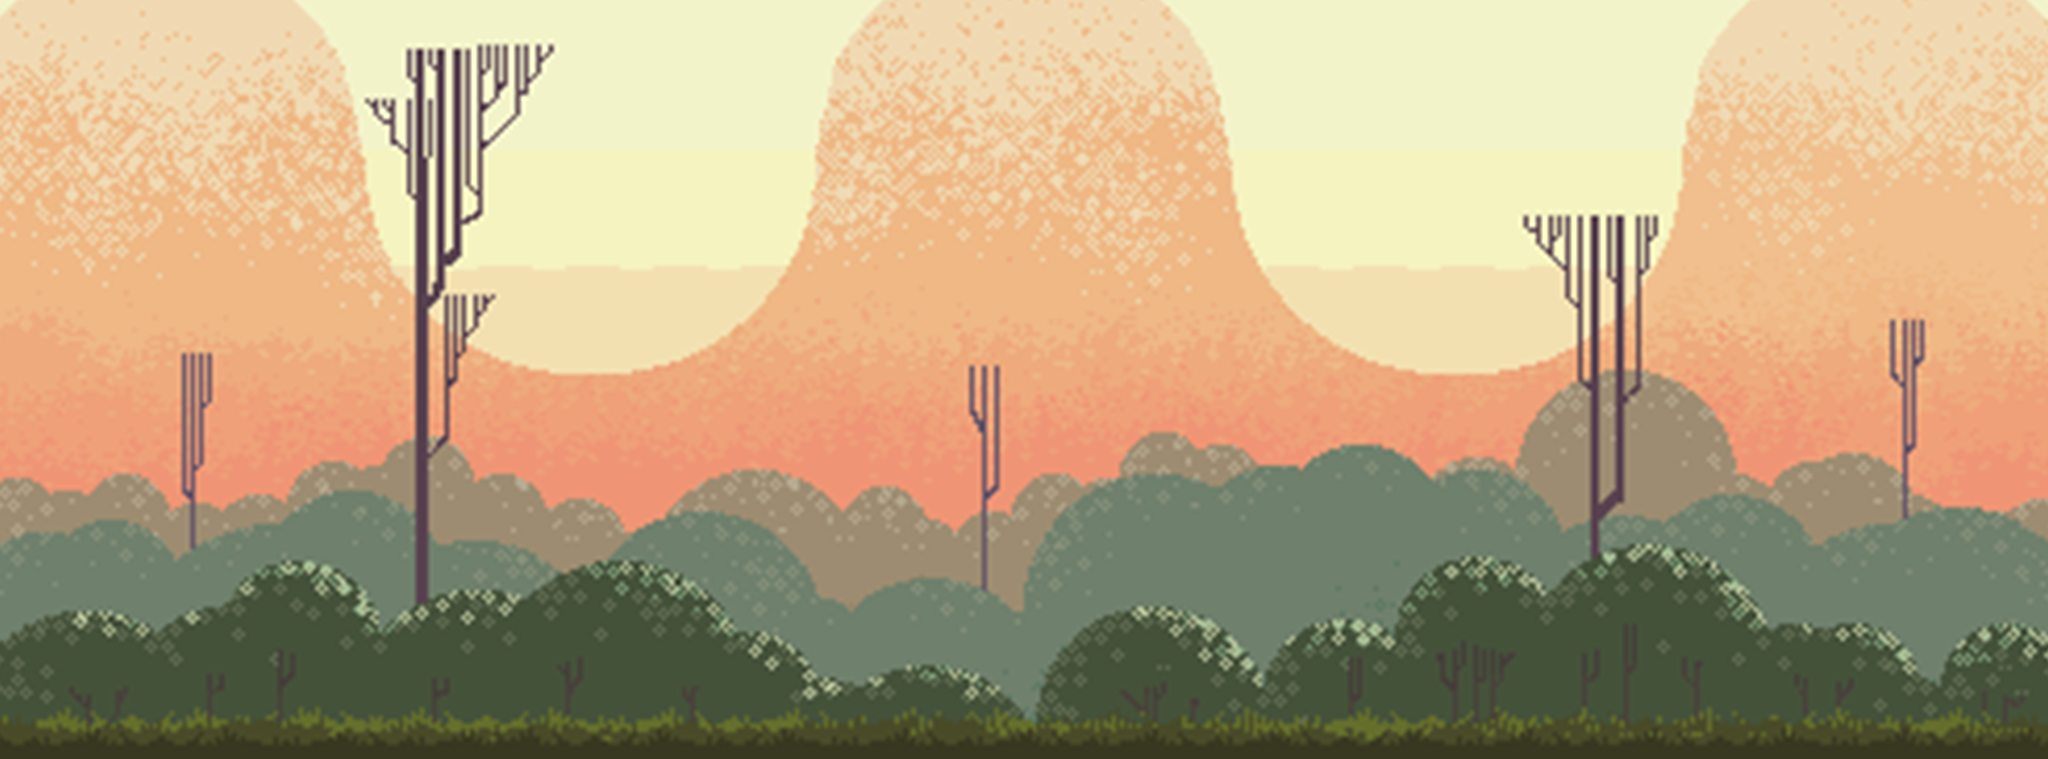
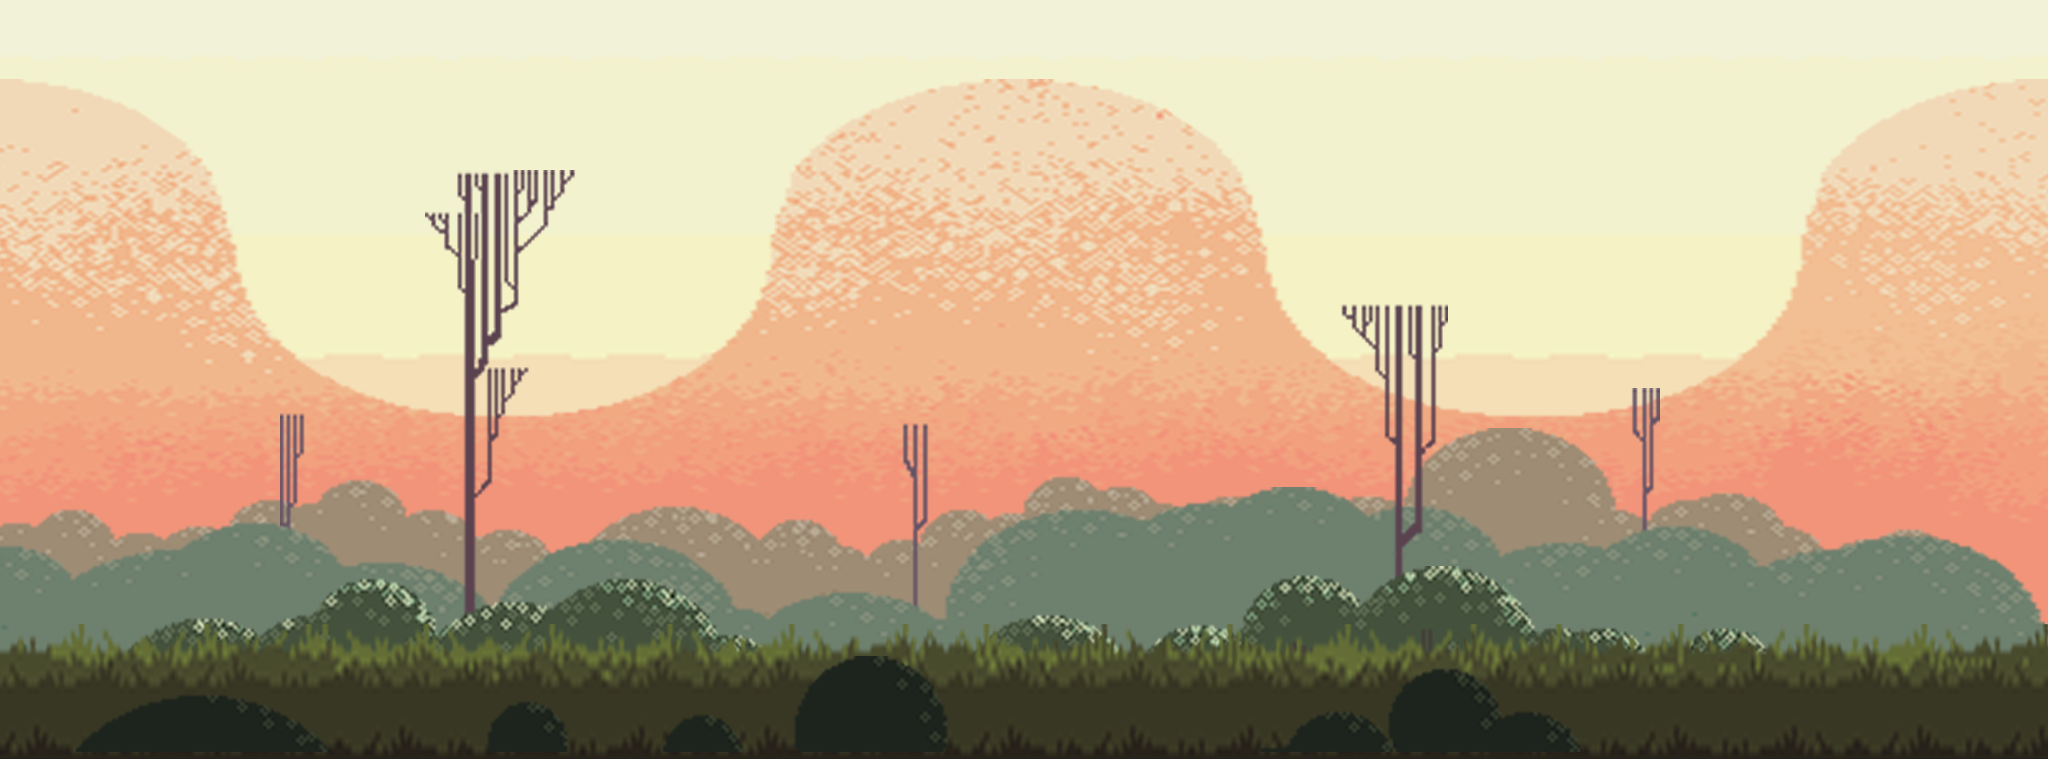
Edit animation (mob and players) + edit background hills

diff --git a/public/js/app.js b/public/js/app.js
@@ -6939,7 +6939,7 @@ exports = module.exports = __webpack_require__("./node_modules/css-loader/lib/cs
 exports.push([module.i, "@import url(https://fonts.googleapis.com/css?family=Nunito);", ""]);
 
 // module
-exports.push([module.i, "\nbody {\n  font-family: Sans-Serif;\n}\n.btn {\n  padding: 10px;\n  text-decoration: none;\n  background-color: #3490dc;\n  border: none;\n  border-radius: 5px;\n  color: #FFF;\n  cursor: pointer;\n}\ninput[type=text], input[type=password], input[type=email] {\n  border: 1px solid #DDD;\n  padding: 10px;\n  border-radius: 5px;\n  outline-width: 0;\n  -webkit-box-sizing: border-box;\n          box-sizing: border-box;\n}\n.container {\n  margin-right: auto;\n  margin-left: auto;\n}\n@media (min-width: 768px) {\n.container {\n    width: 750px;\n}\n}\n@media (min-width: 992px) {\n.container {\n    width: 970px;\n}\n}\n@media (min-width: 1200px) {\n.container {\n    width: 1170px;\n}\n}\nbody {\n  margin: 0;\n}\n.player {\n  position: absolute;\n}\n.back-and-forth {\n  -webkit-animation: backAndForth linear 1.3s;\n          animation: backAndForth linear 1.3s;\n  -webkit-animation-iteration-count: 1;\n          animation-iteration-count: 1;\n}\n.player:nth-of-type(1) {\n  left: 10%;\n  bottom: 10%;\n  z-index: 5;\n}\n.player:nth-of-type(2) {\n  left: 13%;\n  bottom: 12%;\n  z-index: 3;\n}\n.player:nth-of-type(3) {\n  left: 16%;\n  bottom: 14%;\n  z-index: 2;\n}\n.player:nth-of-type(4) {\n  left: 19%;\n  bottom: 16%;\n  z-index: 1;\n}\n.player:nth-of-type(5) {\n  left: 19%;\n  bottom: 14%;\n  z-index: 2;\n}\n.player:nth-of-type(6) {\n  left: 19%;\n  bottom: 12%;\n  z-index: 3;\n}\n.player:nth-of-type(7) {\n  left: 19%;\n  bottom: 10%;\n  z-index: 5;\n}\n.player:nth-of-type(8) {\n  left: 19%;\n  bottom: 11%;\n  z-index: 4;\n}\n.player-image {\n  height: 70%;\n  width: 70%;\n}\n@-webkit-keyframes backAndForth {\n0% {\n    -webkit-transform: translate(0%, 0%) scaleX(1);\n            transform: translate(0%, 0%) scaleX(1);\n}\n17% {\n    -webkit-transform: translate(15vw, -25%) scaleX(1);\n            transform: translate(15vw, -25%) scaleX(1);\n}\n21% {\n    -webkit-transform: translate(25vw, -30%) scaleX(1);\n            transform: translate(25vw, -30%) scaleX(1);\n}\n25% {\n    -webkit-transform: translate(35vw, -25%) scaleX(1);\n            transform: translate(35vw, -25%) scaleX(1);\n}\n35% {\n    -webkit-transform: translate(60vw, 0%) scaleX(1);\n            transform: translate(60vw, 0%) scaleX(1);\n}\n45% {\n    -webkit-transform: translate(65vw, 0%) scaleX(1);\n            transform: translate(65vw, 0%) scaleX(1);\n}\n65% {\n    -webkit-transform: translate(65vw, 0%) scaleX(-1);\n            transform: translate(65vw, 0%) scaleX(-1);\n}\n99% {\n    -webkit-transform: translate(0%, 0%) scaleX(-1);\n            transform: translate(0%, 0%) scaleX(-1);\n}\n100% {\n    -webkit-transform: translate(0%, 0%) scaleX(1);\n            transform: translate(0%, 0%) scaleX(1);\n}\n}\n@keyframes backAndForth {\n0% {\n    -webkit-transform: translate(0%, 0%) scaleX(1);\n            transform: translate(0%, 0%) scaleX(1);\n}\n17% {\n    -webkit-transform: translate(15vw, -25%) scaleX(1);\n            transform: translate(15vw, -25%) scaleX(1);\n}\n21% {\n    -webkit-transform: translate(25vw, -30%) scaleX(1);\n            transform: translate(25vw, -30%) scaleX(1);\n}\n25% {\n    -webkit-transform: translate(35vw, -25%) scaleX(1);\n            transform: translate(35vw, -25%) scaleX(1);\n}\n35% {\n    -webkit-transform: translate(60vw, 0%) scaleX(1);\n            transform: translate(60vw, 0%) scaleX(1);\n}\n45% {\n    -webkit-transform: translate(65vw, 0%) scaleX(1);\n            transform: translate(65vw, 0%) scaleX(1);\n}\n65% {\n    -webkit-transform: translate(65vw, 0%) scaleX(-1);\n            transform: translate(65vw, 0%) scaleX(-1);\n}\n99% {\n    -webkit-transform: translate(0%, 0%) scaleX(-1);\n            transform: translate(0%, 0%) scaleX(-1);\n}\n100% {\n    -webkit-transform: translate(0%, 0%) scaleX(1);\n            transform: translate(0%, 0%) scaleX(1);\n}\n}\n", ""]);
+exports.push([module.i, "\nbody {\n  font-family: Sans-Serif;\n}\n.btn {\n  padding: 10px;\n  text-decoration: none;\n  background-color: #3490dc;\n  border: none;\n  border-radius: 5px;\n  color: #FFF;\n  cursor: pointer;\n}\ninput[type=text], input[type=password], input[type=email] {\n  border: 1px solid #DDD;\n  padding: 10px;\n  border-radius: 5px;\n  outline-width: 0;\n  -webkit-box-sizing: border-box;\n          box-sizing: border-box;\n}\n.container {\n  margin-right: auto;\n  margin-left: auto;\n}\n@media (min-width: 768px) {\n.container {\n    width: 750px;\n}\n}\n@media (min-width: 992px) {\n.container {\n    width: 970px;\n}\n}\n@media (min-width: 1200px) {\n.container {\n    width: 1170px;\n}\n}\nbody {\n  margin: 0;\n}\n.player {\n  position: absolute;\n}\n.back-and-forth {\n  -webkit-animation: backAndForth linear 1.3s;\n          animation: backAndForth linear 1.3s;\n  -webkit-animation-iteration-count: 1;\n          animation-iteration-count: 1;\n}\n.player:nth-of-type(1) {\n  left: 10%;\n  bottom: 10%;\n  z-index: 5;\n}\n.player:nth-of-type(2) {\n  left: 13%;\n  bottom: 12%;\n  z-index: 3;\n}\n.player:nth-of-type(3) {\n  left: 16%;\n  bottom: 14%;\n  z-index: 2;\n}\n.player:nth-of-type(4) {\n  left: 19%;\n  bottom: 16%;\n  z-index: 1;\n}\n.player:nth-of-type(5) {\n  left: 19%;\n  bottom: 14%;\n  z-index: 2;\n}\n.player:nth-of-type(6) {\n  left: 19%;\n  bottom: 12%;\n  z-index: 3;\n}\n.player:nth-of-type(7) {\n  left: 19%;\n  bottom: 10%;\n  z-index: 5;\n}\n.player:nth-of-type(8) {\n  left: 19%;\n  bottom: 11%;\n  z-index: 4;\n}\n.player-image {\n  height: 70%;\n  width: 70%;\n}\n@-webkit-keyframes backAndForth {\n0% {\n    -webkit-transform: translate(0%, 0%) scaleX(1);\n            transform: translate(0%, 0%) scaleX(1);\n}\n17% {\n    -webkit-transform: translate(15vw, -25%) scaleX(1);\n            transform: translate(15vw, -25%) scaleX(1);\n}\n21% {\n    -webkit-transform: translate(25vw, -30%) scaleX(1);\n            transform: translate(25vw, -30%) scaleX(1);\n}\n25% {\n    -webkit-transform: translate(35vw, -25%) scaleX(1);\n            transform: translate(35vw, -25%) scaleX(1);\n    -webkit-filter: saturate(100%);\n            filter: saturate(100%);\n}\n35% {\n    -webkit-transform: translate(60vw, 0%) scaleX(1);\n            transform: translate(60vw, 0%) scaleX(1);\n    -webkit-filter: saturate(150%);\n            filter: saturate(150%);\n}\n45% {\n    -webkit-transform: translate(65vw, 0%) scaleX(1);\n            transform: translate(65vw, 0%) scaleX(1);\n    -webkit-filter: saturate(200%) drop-shadow(14px 14px 25px white);\n            filter: saturate(200%) drop-shadow(14px 14px 25px white);\n}\n65% {\n    -webkit-transform: translate(65vw, 0%) scaleX(-1);\n            transform: translate(65vw, 0%) scaleX(-1);\n}\n99% {\n    -webkit-transform: translate(0%, 0%) scaleX(-1);\n            transform: translate(0%, 0%) scaleX(-1);\n}\n100% {\n    -webkit-transform: translate(0%, 0%) scaleX(1);\n            transform: translate(0%, 0%) scaleX(1);\n}\n}\n@keyframes backAndForth {\n0% {\n    -webkit-transform: translate(0%, 0%) scaleX(1);\n            transform: translate(0%, 0%) scaleX(1);\n}\n17% {\n    -webkit-transform: translate(15vw, -25%) scaleX(1);\n            transform: translate(15vw, -25%) scaleX(1);\n}\n21% {\n    -webkit-transform: translate(25vw, -30%) scaleX(1);\n            transform: translate(25vw, -30%) scaleX(1);\n}\n25% {\n    -webkit-transform: translate(35vw, -25%) scaleX(1);\n            transform: translate(35vw, -25%) scaleX(1);\n    -webkit-filter: saturate(100%);\n            filter: saturate(100%);\n}\n35% {\n    -webkit-transform: translate(60vw, 0%) scaleX(1);\n            transform: translate(60vw, 0%) scaleX(1);\n    -webkit-filter: saturate(150%);\n            filter: saturate(150%);\n}\n45% {\n    -webkit-transform: translate(65vw, 0%) scaleX(1);\n            transform: translate(65vw, 0%) scaleX(1);\n    -webkit-filter: saturate(200%) drop-shadow(14px 14px 25px white);\n            filter: saturate(200%) drop-shadow(14px 14px 25px white);\n}\n65% {\n    -webkit-transform: translate(65vw, 0%) scaleX(-1);\n            transform: translate(65vw, 0%) scaleX(-1);\n}\n99% {\n    -webkit-transform: translate(0%, 0%) scaleX(-1);\n            transform: translate(0%, 0%) scaleX(-1);\n}\n100% {\n    -webkit-transform: translate(0%, 0%) scaleX(1);\n            transform: translate(0%, 0%) scaleX(1);\n}\n}\n", ""]);
 
 // exports
 
@@ -7044,7 +7044,7 @@ exports = module.exports = __webpack_require__("./node_modules/css-loader/lib/cs
 exports.push([module.i, "@import url(https://fonts.googleapis.com/css?family=Nunito);", ""]);
 
 // module
-exports.push([module.i, "\nbody {\n  font-family: Sans-Serif;\n}\n.btn {\n  padding: 10px;\n  text-decoration: none;\n  background-color: #3490dc;\n  border: none;\n  border-radius: 5px;\n  color: #FFF;\n  cursor: pointer;\n}\ninput[type=text], input[type=password], input[type=email] {\n  border: 1px solid #DDD;\n  padding: 10px;\n  border-radius: 5px;\n  outline-width: 0;\n  -webkit-box-sizing: border-box;\n          box-sizing: border-box;\n}\n.container {\n  margin-right: auto;\n  margin-left: auto;\n}\n@media (min-width: 768px) {\n.container {\n    width: 750px;\n}\n}\n@media (min-width: 992px) {\n.container {\n    width: 970px;\n}\n}\n@media (min-width: 1200px) {\n.container {\n    width: 1170px;\n}\n}\nbody {\n  margin: 0;\n}\n.mob {\n  height: 160px;\n  position: absolute;\n  bottom: 10%;\n  right: 10%;\n}\n.mob .progression-bar {\n    position: relative;\n    background-color: rgba(0, 0, 0, 0.7);\n    border-radius: 5px;\n    width: 100%;\n    height: 10px;\n}\n.mob .progression-bar .progression {\n      height: 100%;\n      background-color: #e3342f;\n      border-radius: 5px;\n      -webkit-transition: width .5s ease-in-out;\n      transition: width .5s ease-in-out;\n}\n.mob-image {\n  height: 100%;\n}\n.hurt {\n  -webkit-animation: hurt linear 0.2s;\n          animation: hurt linear 0.2s;\n  -webkit-animation-iteration-count: 10;\n          animation-iteration-count: 10;\n}\n@-webkit-keyframes hurt {\n0% {\n    -webkit-transform: translate(0%, 0%) scaleX(1);\n            transform: translate(0%, 0%) scaleX(1);\n}\n50% {\n    -webkit-transform: translate(2%, -2%) scaleX(0.9);\n            transform: translate(2%, -2%) scaleX(0.9);\n    -webkit-filter: opacity(25%);\n            filter: opacity(25%);\n}\n100% {\n    -webkit-transform: translate(0%, 0%) scaleX(1);\n            transform: translate(0%, 0%) scaleX(1);\n}\n}\n@keyframes hurt {\n0% {\n    -webkit-transform: translate(0%, 0%) scaleX(1);\n            transform: translate(0%, 0%) scaleX(1);\n}\n50% {\n    -webkit-transform: translate(2%, -2%) scaleX(0.9);\n            transform: translate(2%, -2%) scaleX(0.9);\n    -webkit-filter: opacity(25%);\n            filter: opacity(25%);\n}\n100% {\n    -webkit-transform: translate(0%, 0%) scaleX(1);\n            transform: translate(0%, 0%) scaleX(1);\n}\n}\n", ""]);
+exports.push([module.i, "\nbody {\n  font-family: Sans-Serif;\n}\n.btn {\n  padding: 10px;\n  text-decoration: none;\n  background-color: #3490dc;\n  border: none;\n  border-radius: 5px;\n  color: #FFF;\n  cursor: pointer;\n}\ninput[type=text], input[type=password], input[type=email] {\n  border: 1px solid #DDD;\n  padding: 10px;\n  border-radius: 5px;\n  outline-width: 0;\n  -webkit-box-sizing: border-box;\n          box-sizing: border-box;\n}\n.container {\n  margin-right: auto;\n  margin-left: auto;\n}\n@media (min-width: 768px) {\n.container {\n    width: 750px;\n}\n}\n@media (min-width: 992px) {\n.container {\n    width: 970px;\n}\n}\n@media (min-width: 1200px) {\n.container {\n    width: 1170px;\n}\n}\nbody {\n  margin: 0;\n}\n.mob {\n  height: 160px;\n  position: absolute;\n  bottom: 10%;\n  right: 10%;\n}\n.mob .progression-bar {\n    position: relative;\n    background-color: rgba(0, 0, 0, 0.7);\n    border-radius: 5px;\n    width: 100%;\n    height: 10px;\n}\n.mob .progression-bar .progression {\n      height: 100%;\n      background-color: #e3342f;\n      border-radius: 5px;\n      -webkit-transition: width .5s ease-in-out;\n      transition: width .5s ease-in-out;\n}\n.mob-image {\n  height: 100%;\n}\n.hurt {\n  -webkit-animation: hurt linear 0.2s;\n          animation: hurt linear 0.2s;\n  -webkit-animation-iteration-count: 10;\n          animation-iteration-count: 10;\n}\n@-webkit-keyframes hurt {\n0% {\n    -webkit-transform: translate(0%, 0%) scaleX(1);\n            transform: translate(0%, 0%) scaleX(1);\n    -webkit-filter: hue-rotate(90deg);\n            filter: hue-rotate(90deg);\n}\n50% {\n    -webkit-transform: translate(2%, -2%) scaleX(0.9);\n            transform: translate(2%, -2%) scaleX(0.9);\n    -webkit-filter: opacity(25%);\n            filter: opacity(25%);\n}\n100% {\n    -webkit-transform: translate(0%, 0%) scaleX(1);\n            transform: translate(0%, 0%) scaleX(1);\n}\n}\n@keyframes hurt {\n0% {\n    -webkit-transform: translate(0%, 0%) scaleX(1);\n            transform: translate(0%, 0%) scaleX(1);\n    -webkit-filter: hue-rotate(90deg);\n            filter: hue-rotate(90deg);\n}\n50% {\n    -webkit-transform: translate(2%, -2%) scaleX(0.9);\n            transform: translate(2%, -2%) scaleX(0.9);\n    -webkit-filter: opacity(25%);\n            filter: opacity(25%);\n}\n100% {\n    -webkit-transform: translate(0%, 0%) scaleX(1);\n            transform: translate(0%, 0%) scaleX(1);\n}\n}\n", ""]);
 
 // exports
 

diff --git a/resources/js/components/Player.vue b/resources/js/components/Player.vue
@@ -92,12 +92,15 @@
         }
         25% {
             transform:  translate(35vw,-25%)  scaleX(1.00) ;
+            filter : saturate(100%);
         }
         35% {
             transform:  translate(60vw,0%)  scaleX(1.00) ;
+            filter : saturate(150%);
         }
         45% {
             transform:  translate(65vw,0%)  scaleX(1.00) ;
+            filter : saturate(200%) drop-shadow(14px 14px 25px white);
         }
         65% {
             transform:  translate(65vw,0%)  scaleX(-1.00) ;

diff --git a/resources/js/components/Mob.vue b/resources/js/components/Mob.vue
@@ -97,6 +97,7 @@
     @keyframes hurt {
         0% {
             transform: translate(0%, 0%) scaleX(1.00);
+            filter: hue-rotate(90deg);
         }
         50% {
             transform: translate(2%, -2%) scaleX(0.9);
